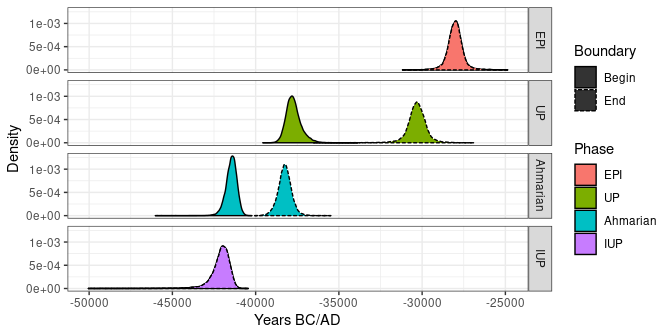
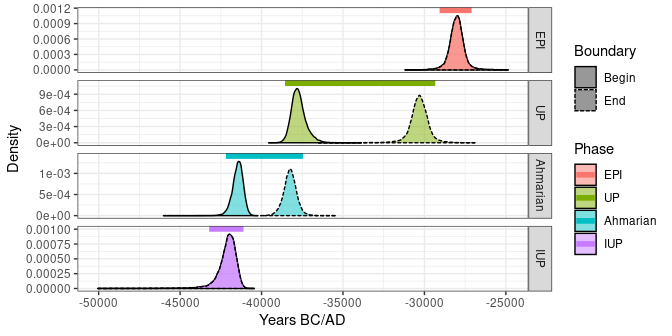
Display time range when plotting phases

diff --git a/README.md b/README.md
@@ -103,6 +103,15 @@ plot(ac) +
 ### Analysis of a group of dates (phase)
 
 ``` r
+boundaries(chrono_phases, level = 0.95)
+#>           start    end
+#> EPI      -29071 -27102
+#> UP       -38559 -29335
+#> Ahmarian -42189 -37461
+#> IUP      -43217 -41106
+```
+
+``` r
 plot(chrono_phases) +
   ggplot2::theme_bw()
 ```
